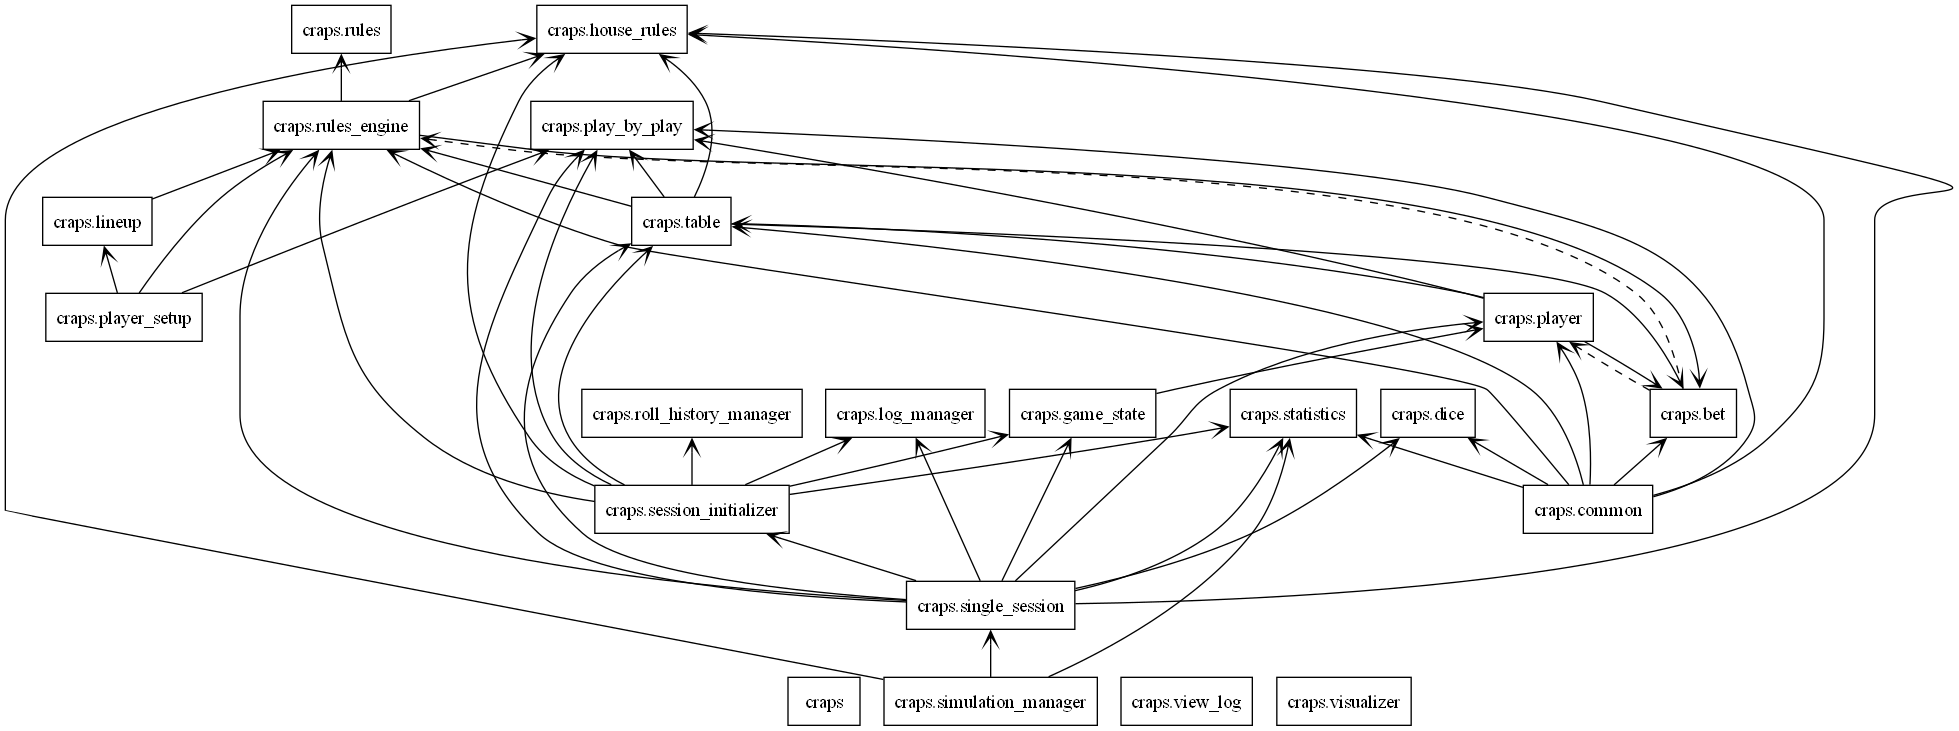
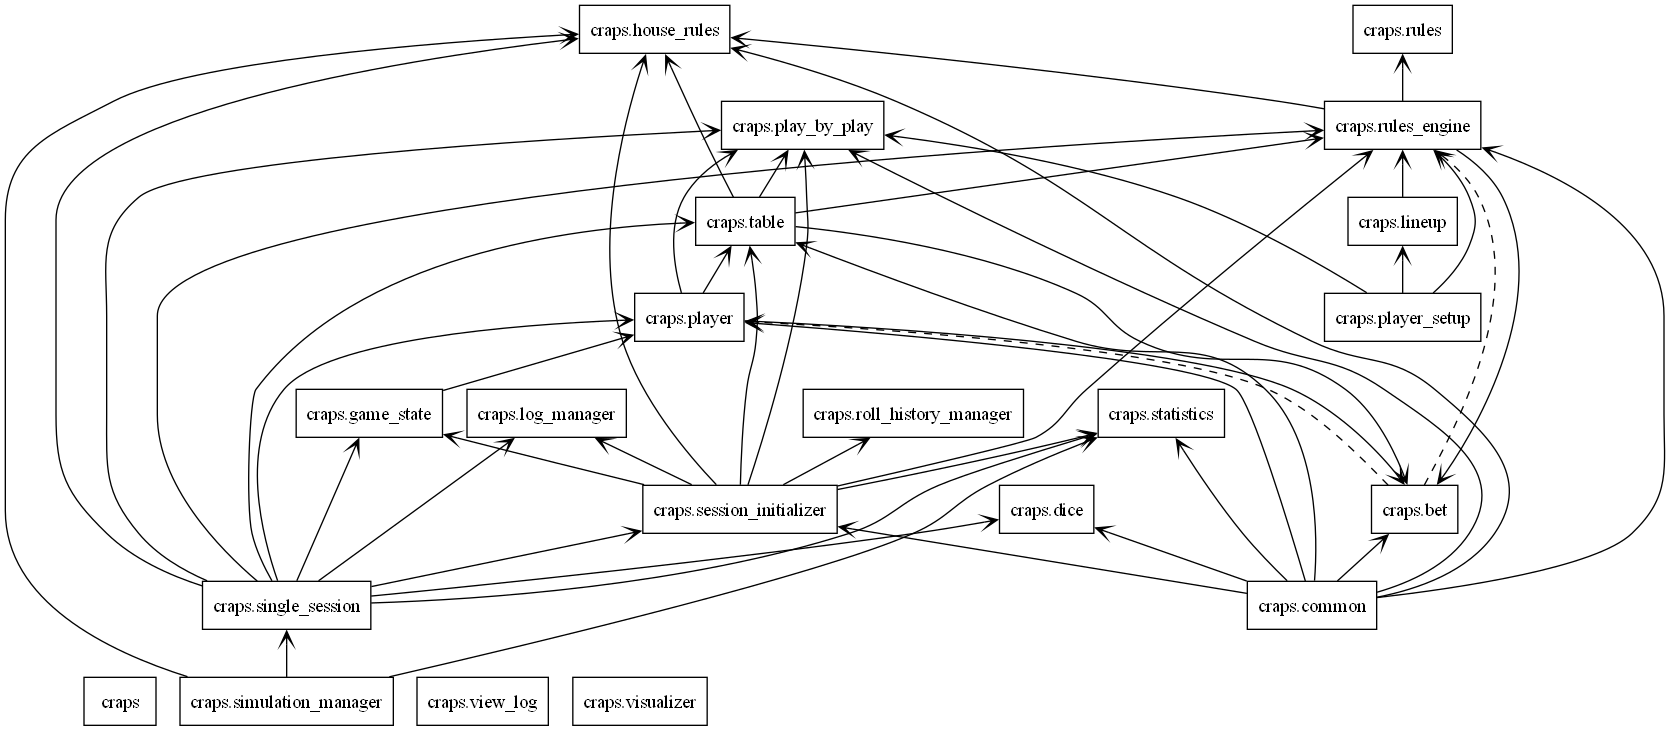
Refactored Common

diff --git a/craps/common.py b/craps/common.py
@@ -7,38 +7,40 @@ from craps.player import Player
 from craps.dice import Dice
 from craps.statistics import Statistics
 from craps.bet import Bet
+from craps.session_initializer import InitializeSession
 
 class CommonTableSetup:
-    """Common setup for all craps tests."""
+    """Common setup for all craps tests, now using InitializeSession for consistency."""
 
     def __init__(self) -> None:
         """Initialize the table, players, and other components for testing."""
-        # Initialize house rules
-        self.house_rules_config: dict[str, int] = {
-            "table_minimum": 10,  # Minimum bet amount
-            "table_maximum": 5000,  # Maximum bet amount
-        }
-        self.house_rules: HouseRules = HouseRules(self.house_rules_config)
 
-        # ✅ Initialize RulesEngine
-        self.rules_engine: RulesEngine = RulesEngine()
+        # ✅ InitializeSession 
+        self.rules_engine = RulesEngine()
+        self.play_by_play = PlayByPlay()
 
-        # Initialize play-by-play
-        self.play_by_play: PlayByPlay = PlayByPlay()
+        session_initializer = InitializeSession(
+            session_mode="test",
+            house_rules_config={"table_minimum": 10, "table_maximum": 5000},
+            play_by_play=self.play_by_play,
+            rules_engine=self.rules_engine,
+            log_manager=None  # Tests likely don’t need full logging
+        )
 
-        # ✅ Pass RulesEngine to Table
-        self.table: Table = Table(self.house_rules, self.play_by_play, self.rules_engine)
+        session_data = session_initializer.prepare_session(num_shooters=10, num_players=1)
 
-        # Initialize a player
-        self.player_name: str = "Alice"
-        self.initial_balance: int = 1000
-        self.player: Player = Player(self.player_name, self.initial_balance)
+        if session_data is None:
+            raise RuntimeError("Failed to initialize common test session.")
 
-        # Initialize statistics
-        self.stats: Statistics = Statistics(self.house_rules.table_minimum, num_shooters=10, num_players=1)
+        self.house_rules, self.table, self.roll_history_manager, _, self.play_by_play, self.stats, self.game_state = session_data
 
-        # Initialize dice (optional, for testing specific rolls)
-        self.dice: Dice = Dice()
+        # ✅ Setup Player
+        self.player_name = "Alice"
+        self.initial_balance = 1000
+        self.player = Player(self.player_name, self.initial_balance)
+
+        # ✅ Setup Gamestate
+        self.game_state.set_table(self.table)
 
     def place_bet(self, bet_type: str, amount: int, phase: str = "come-out", number: Optional[int] = None) -> Bet:
         """
@@ -51,16 +53,14 @@ class CommonTableSetup:
         :return: The created bet.
         """
         if bet_type == "Come Odds":
-            # Ensure the Come bet has a number before placing the Come Odds bet
-            come_bet: Optional[Bet] = next(
+            come_bet = next(
                 (bet for bet in self.table.bets if bet.bet_type == "Come" and bet.owner == self.player), None
             )
             if come_bet is None or come_bet.number is None:
                 raise ValueError("Cannot place Come Odds bet without an active Come bet with a number.")
-            number = come_bet.number  # Use the number from the Come bet
+            number = come_bet.number
 
-        # ✅ Use the correctly initialized RulesEngine
-        bet: Bet = self.rules_engine.create_bet(bet_type, amount, self.player, number=number)
+        bet = self.rules_engine.create_bet(bet_type, amount, self.player, number=number)
         self.table.place_bet(bet, phase)
         return bet
 
@@ -68,7 +68,7 @@ class CommonTableSetup:
         """
         Simulate a dice roll and resolve bets on the table.
 
-        :param dice_outcome: The result of the dice roll (e.g., [3, 4]).
+        :param dice_outcome: The result of the dice roll (e.g., (3, 4)).
         :param phase: The current game phase ("come-out" or "point").
         :param point: The current point number (if in point phase).
         :return: A list of resolved bets.

diff --git a/craps/session_initializer.py b/craps/session_initializer.py
@@ -15,7 +15,7 @@ class InitializeSession:
         house_rules_config: Dict[str, int], 
         play_by_play: PlayByPlay, 
         rules_engine: RulesEngine, 
-        log_manager: LogManager
+        log_manager: Optional[LogManager] = None
     ) -> None:
         """
         Initialize the session.
@@ -29,9 +29,9 @@ class InitializeSession:
         self.session_mode: str = session_mode
         self.house_rules_config: Dict[str, int] = house_rules_config
         self.roll_history_manager: RollHistoryManager = RollHistoryManager()
-        self.log_manager: LogManager = log_manager
+        self.log_manager = log_manager or LogManager()
         self.play_by_play: PlayByPlay = play_by_play
-        self.rules_engine: RulesEngine = rules_engine  # ✅ Store RulesEngine
+        self.rules_engine: RulesEngine = rules_engine
 
     def prepare_session(
         self, num_shooters: int, num_players: int
